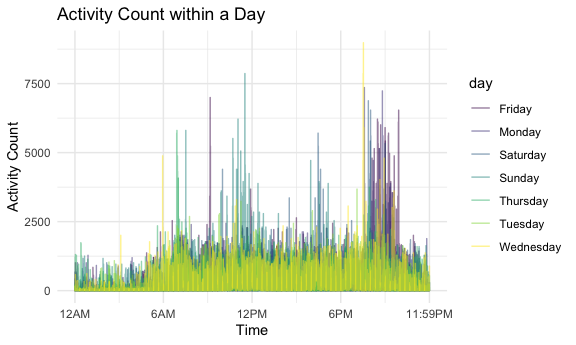
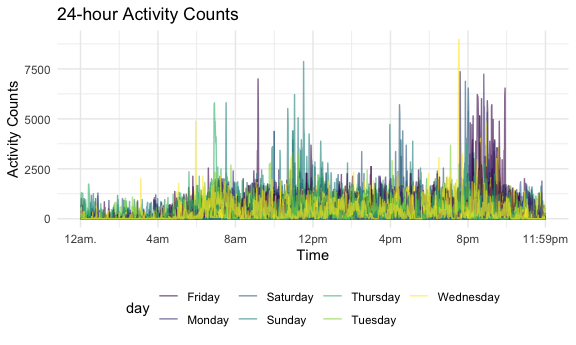
updated version of hw3

diff --git a/p8105_hw3_ly2565.md b/p8105_hw3_ly2565.md
@@ -3,43 +3,6 @@ p8105\_hw3\_ly2565
 Lin Yang
 10/17/2021
 
-``` r
-library(tidyverse)
-```
-
-    ## ── Attaching packages ─────────────────────────────────────── tidyverse 1.3.1 ──
-
-    ## ✓ ggplot2 3.3.5     ✓ purrr   0.3.4
-    ## ✓ tibble  3.1.3     ✓ dplyr   1.0.7
-    ## ✓ tidyr   1.1.3     ✓ stringr 1.4.0
-    ## ✓ readr   2.0.1     ✓ forcats 0.5.1
-
-    ## ── Conflicts ────────────────────────────────────────── tidyverse_conflicts() ──
-    ## x dplyr::filter() masks stats::filter()
-    ## x dplyr::lag()    masks stats::lag()
-
-``` r
-library(ggridges)
-library(patchwork)
-library(p8105.datasets)
-
-knitr::opts_chunk$set(
-  fig.width = 6,
-  fig.asp = .6,
-  out.width = "90%"
-)
-
-theme_set(theme_minimal() + theme(legend.position = "bottom"))
-
-options(
-  ggplot2.continuous.colour = "viridis",
-  ggplot2.continuous.fill = "viridis"
-)
-
-scale_colour_discrete = scale_colour_viridis_d
-scale_fill_discrete = scale_fill_viridis_d
-```
-
 # Problem 1
 
 ## Load the instacart data.
@@ -365,8 +328,8 @@ accelerometer_df =
   read_csv(file = "data/accel_data.csv") %>% 
   janitor::clean_names() %>% 
   mutate(
-    weekday_vs_end = ifelse(day %in% c('Saturday', 'Sunday'), 'Weekend', 'Weekday')) %>% 
-    select(day_id, week, day, weekday_vs_end, everything()) %>% 
+    weekday_or_end = ifelse(day %in% c("Saturday", "Sunday"), "Weekend", "Weekday")) %>% 
+    select(day_id, week, day, weekday_or_end, everything()) %>% 
   pivot_longer(
     activity_1:activity_1440,
     names_to = "minute",
@@ -392,7 +355,7 @@ accelerometer_df
 ```
 
     ## # A tibble: 50,400 × 6
-    ##    day_id  week day    weekday_vs_end minute activity_count
+    ##    day_id  week day    weekday_or_end minute activity_count
     ##     <dbl> <dbl> <chr>  <chr>           <dbl>          <dbl>
     ##  1      1     1 Friday Weekday             1           88.4
     ##  2      1     1 Friday Weekday             2           82.2
@@ -407,13 +370,15 @@ accelerometer_df
     ## # … with 50,390 more rows
 
 -   The resulting data set has 50400 observations of 6 variables:
-    day\_id, week, day, weekday\_vs\_end, minute, activity\_count.
+    day\_id, week, day, weekday\_or\_end, minute, activity\_count. In
+    the `minute` column, `1` means the first minute starting at
+    midnight, `2` means the second minute and so on. The values in the
+    `activity_count` column are the activity counts for each minute.
 
 ## Aggregate activity counts for each day.
 
 ``` r
-df = 
-  accelerometer_df %>% 
+accelerometer_df %>% 
   group_by(week, day) %>% 
   summarize(activity_total = sum(activity_count)) %>% 
   pivot_wider(
@@ -425,3 +390,40 @@ df =
 ```
 
     ## `summarise()` has grouped output by 'week'. You can override using the `.groups` argument.
+
+| week |    Monday |  Tuesday | Wednesday | Thursday |   Friday | Saturday | Sunday |
+|-----:|----------:|---------:|----------:|---------:|---------:|---------:|-------:|
+|    1 |  78828.07 | 307094.2 |    340115 | 355923.6 | 480542.6 |   376254 | 631105 |
+|    2 | 295431.00 | 423245.0 |    440962 | 474048.0 | 568839.0 |   607175 | 422018 |
+|    3 | 685910.00 | 381507.0 |    468869 | 371230.0 | 467420.0 |   382928 | 467052 |
+|    4 | 409450.00 | 319568.0 |    434460 | 340291.0 | 154049.0 |     1440 | 260617 |
+|    5 | 389080.00 | 367824.0 |    445366 | 549658.0 | 620860.0 |     1440 | 138421 |
+
+-   It seems total activities increased during weekdays, but the trend
+    is not strictly increasing. In addition, the total activities on
+    Saturday in week 4 and 5 dropped significantly, which may need us to
+    pay attention to.
+
+## Make a plot showing the 24-hour activity time courses for each day.
+
+``` r
+accelerometer_df %>% 
+  ggplot(aes(x = minute, y = activity_count, color = day, group = day_id)) +
+  geom_line(alpha = 0.6) + 
+  labs(
+    title = "24-hour Activity Counts",
+    x = "Time",
+    y = "Activity Counts"
+  ) +
+  scale_x_continuous(
+    breaks = c(0, 240, 480, 720, 960, 1200, 1440), 
+    labels = c("12am.", "4am", "8am", "12pm", "4pm", "8pm", "11:59pm"),
+    limits = c(0, 1440)
+  )
+```
+
+<img src="p8105_hw3_ly2565_files/figure-gfm/unnamed-chunk-13-1.png" width="90%" />
+\* From the plot, we can see that activity counts tend to be higher in 3
+periods of time on each day: 6am-12pm, 4pm-6pm, and 8pm-10pm(especially
+on Wed and Fri); activity counts tend to be lower from 10pm-6pm each day
+which may be the sleeping period.
